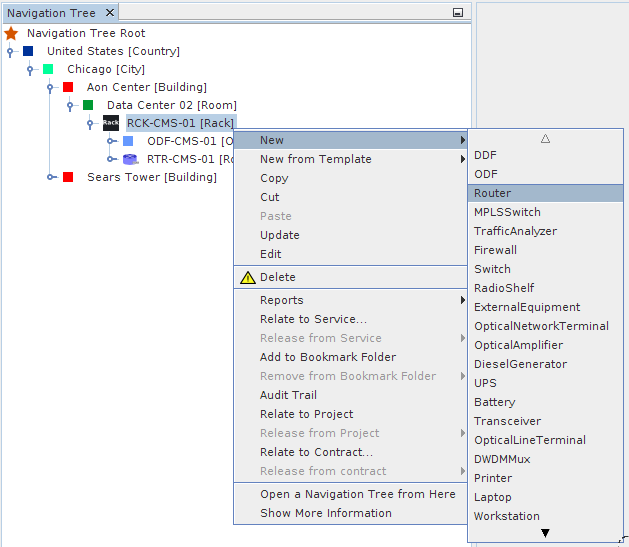
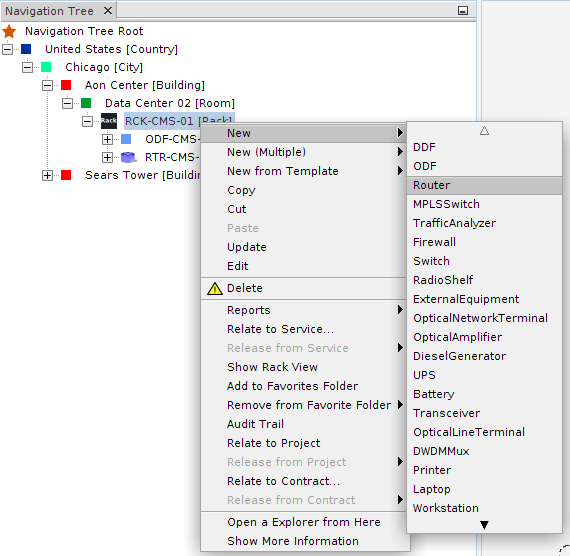
Added documentation for New (Multiple), New Special, New Special (Multiple) and New Special from Template actions. Updated documentation for Containment Hierarchy and Template Manager

Changed region(s): [[0.0, 0.0, 1.0, 1.0]]

diff --git a/docs/user_manual/user_manual.tex b/docs/user_manual/user_manual.tex
@@ -81,6 +81,8 @@
 				December 19th 2016 & Added documentation for templates and reports.\\
 				\midrule
 				June 1th 2017 & Added documentation for Bookmarks, Update Center, Projects and new functions in the Relationship Explorer.\\
+				\midrule
+				June 30th 2017 & Added documentation for New (Multiple), New Special, New Special (Multiple) and New Special from Template actions. Updated documentation for Containment Hierarchy and Template Manager.\\
 				\bottomrule
 			\end{tabular}	
 				
@@ -310,13 +312,26 @@
 	\section{Containment Manager} \label{sec:containment_manager}
 	Another key concept in Kuwaiba is containment. It consists of the ability to define what kind of objects can be created within others. For example, a \textbf{Country} can be inside a \textbf{Continent}, but can't be inside a \textbf{Rack}. A \textbf{Port} is usually within a \textbf{Board}, and not inside a \textbf{City}. These business rules can be defined using the Containment Manager.
 	
+	\subsection{Standard Containment Hierarchy} \label{sec:standard_containment_hierarchy}
+	The main window is divided in two panels (see figure~\ref{fig:standard_containment_manager}, zoom in the image to see the details). The one on the left is a tree that holds all the classes plus the \textbf{Navigation Tree Root}. The children of the left-side tree node are the possible classes that can be contained. In the figure~\ref{fig:standard_containment_manager} there are five nodes expanded: \textbf{City}, that has one node inside: \textbf{Building}. That means that below a given city, you will only be able to add \textbf{Building} objects. Likewise, inside a \textbf{Continent} you can only create instances of \textbf{Country}, and inside those instances, only objects of class \textbf{City}. Under the root of the Navigation Tree, only instances of \textbf{Continent} are to be created. Finally, only \textbf{OpticalPorts} are supported under \textbf{DWDMBoards}. If for your operation Continents are not relevant, or if your routers do not have boards, but only ports, simplify the hierarchy as much as you want to meet your needs. To remove a possible children class, just right-click on it and select “Remove”, and instances from that class will no longer be available to be added under the parent class, though the objects created already will remain linked to the respective parent objects.
+	
 	\begin{figure}[h!]
 		\centering
-		\includegraphics[width=0.6\linewidth]{img/containment_manager.png}
-		\caption{Containment Manager main window. Zoom in the image to see the details}
-		\label{fig:containment_manager}
+		\includegraphics[width=0.6\linewidth]{img/standard_containment_manager.png}
+		\caption{Standard Containment Manager main window. Zoom in the image to see the details}
+		\label{fig:standard_containment_manager}
 	\end{figure}
-	The main window is divided in two panels (see figure~\ref{fig:containment_manager}, zoom in the image to see the details). The one on the left is a tree that holds all the classes plus the \textbf{Navigation Tree Root}. The children of the left-side tree node are the possible classes that can be contained. In the figure~\ref{fig:containment_manager} there are five nodes expanded: \textbf{City}, that has one node inside: \textbf{Building}. That means that below a given city, you will only be able to add \textbf{Building} objects. Likewise, inside a \textbf{Continent} you can only create instances of \textbf{Country}, and inside those instances, only objects of class \textbf{City}. Under the root of the Navigation Tree, only instances of \textbf{Continent} are to be created. Finally, only \textbf{OpticalPorts} are supported under \textbf{DWDMBoards}. If for your operation Continents are not relevant, or if your routers do not have boards, but only ports, simplify the hierarchy as much as you want to meet your needs. To remove a possible children class, just right-click on it and select “Remove”, and instances from that class will no longer be available to be added under the parent class, though the objects created already will remain linked to the respective parent objects.
+	
+	\subsection{Special Containment Hierarchy} \label{sec:special_containment_hierarchy}
+	The special containment hierarchy (see figure~\ref{fig:special_containment_manager}) is used to define the business rules for special children see \textbf{\nameref{sec:extra_explorers_children_explorer}}. For example a cables inside a conduit connecting two buildings in this scenario to configure the hierarchy for a wire container drag links like (ElectricalLink, OpticalLink, PowerLink, RadioLink or for simply used the GenericPhysicalLink) from the right panel to the WireContainer class in the left panel, and in this way using the \textbf{\nameref{sec:extra_explorers_children_explorer}} you can create special children for a conduit.
+	
+	\begin{figure}[h!]
+		\centering
+		\includegraphics[width=0.6\linewidth]{img/special_containment_manager.png}
+		\caption{Special Containment Manager main window. Zoom in the image to see the details}
+		\label{fig:special_containment_manager}
+	\end{figure}
+	
 	\begin{framed} {\large \textbf{Important}}
 		\begin{itemize}
 			\item To avoid adding one by one many classes to a parent, you can use the flexibility of the data model as a hierarchical structure. For example, a \textbf{Rack} may contain within many types of equipment (routers, DDFs, switches, battery banks, etc). Instead of adding one by one each of these classes, you can add a common super class and all of them will be added automatically. For this example a common super class for most of those classes could be \textbf{GenericCommunicationsElement}.
@@ -324,6 +339,8 @@
 			\item The changes are applied immediately, however, if you happen to not see them reflected, press the Refresh Cache button \includegraphics[width=0.5cm]{img/icon_refresh_cache.png} in the main toolbar (see table~\ref{tab:toolbar_icons}).
 		\end{itemize}
 	\end{framed}
+	
+
 	
 	\newpage
 	\section{Navigation Tree} \label{sec:navigation_tree}
@@ -352,6 +369,13 @@
 	\end{figure}
 	\begin{itemize}
 		\item \textbf{New:} The list of object types that can be contained for the selected element type according to the configured Containment Hierarchy. In this case, a \textbf{Rack} can contain \textbf{DDFs}, \textbf{ODFs}, \textbf{Routers}, etc.
+		\item \textbf{New (Multiple):} Crates a defined number of objects at once using a given name pattern see \textbf{\nameref{app:AppendixA}} figure~\ref{fig:new_multiple}.
+			\begin{figure}[h!]
+				\centering
+				\includegraphics[width=0.5\linewidth]{img/new_multiple.png}
+				\caption{Creation of a \textbf{Router} set}
+				\label{fig:new_multiple}
+			\end{figure}
 		\item \textbf{New from template:} Crates a containment structure. See more details in the chapter \nameref{sec:template_manager}
 		\item \textbf{Copy:} A plain copy operation.
 		\item \textbf{Cut:} A plain cut operation.
@@ -427,10 +451,26 @@
 						
 		\begin{figure}[h!]
 			\centering
-			\includegraphics[width=0.3\linewidth]{img/navigation_tree_special_children_explorer.png}
+			\includegraphics[width=0.7\linewidth]{img/navigation_tree_special_children_explorer.png}
 			\caption{Fibers inside a container between two buildings}
 			\label{fig:navigation_tree_special_children_explorer}
 		\end{figure}
+		
+		Every node in the special children explorer has a set of actions, some will be active for all objects, some depend on the type of element that is selected. In the figure~\ref{fig:navigation_tree_special_children_explorer} you can see the actions enabled for a WireContainer object. The actions are the same that in the Navigation Tree with the next exceptions:
+		
+		\begin{itemize}
+			\item \textbf{New Special:} The list of special object types that can be contained for the selected element type according to the configured Special Containment Hierarchy.
+			\item \textbf{New Special (Multiple):} Creates a given number of special objects at once using a defined name pattern see \textbf{\nameref{app:AppendixA}}
+			\begin{figure}[h!]
+				\centering
+				\includegraphics[width=0.5\linewidth]{img/new_special_multiple.png}
+				\caption{Creation of a \textbf{OpticalLink} set}
+				\label{fig:new_special_multiple}
+			\end{figure}			
+			\item \textbf{New Special from template:} Crates a containment structure. See more details in the chapter \nameref{sec:template_manager}
+		\end{itemize}
+		
+		
 			
 	\newpage
 	\section{Template Manager} \label{sec:template_manager}
@@ -470,6 +510,15 @@
 		\label{fig:template_manager_template_properties}
 	\end{figure}
 	
+	Also is available create template using special objects see \textbf{\nameref{sec:extra_explorers_children_explorer}}, in the \ref{fig:template_with_special_objects} show the template for a Non-Armored Loose Tube Cable. 
+	
+	\begin{figure}[h!]
+		\centering
+		\includegraphics[width=0.5\linewidth]{img/template_with_special_objects.png}
+		\caption{Template using special object}
+		\label{fig:template_with_special_objects}
+	\end{figure}
+	
 	Now you can create a containment structure as complex as you want.\\
 	
 	\begin{figure}[h!]
@@ -478,7 +527,7 @@
 		\caption{Template with a complex containment structure}
 		\label{fig:template_manager_template_containment}
 	\end{figure}
-	Copy, paste and rename operations work as they do with normal inventory objects and you can use them to construct your templates. Remember that you have to configure correctly the containment hierarchy (see \ref{fig:containment_manager}) before creating templates.\\
+	Copy, paste and rename operations work as they do with normal inventory objects and you can use them to construct your templates. Remember that you have to configure correctly the standard (see \ref{fig:standard_containment_manager}) and special (see \ref{fig:special_containment_manager}) containment hierarchy  before creating templates.\\
 	Now you can create objects from templates. Just right-click on the parent object and select the \textbf{New from Template...} action.\\
 	\begin{figure}[h!]
 		\centering
@@ -2250,6 +2299,25 @@
 		    	\caption{Projects data model error}
 		    	\label{fig:patch_projects}
 		    \end{figure}
-				
-				
+		\newpage
+		\begin{appendices}
+			\appendix
+			\section{Appendix A. Name Pattern} \label{app:AppendixA}
+			A name pattern is used to create dynamically the names of new objects or new special objects using the actions New (Multiple) and New Special (Multiple) respectively.			
+			
+			The name pattern is a set of static and dynamic sections, in the static section can be place any string of characters with the exception of the special characters "[" and "]", and in the dynamic section only can be placed pre-defined functions listed below.
+			
+			\begin{itemize}
+				\item \textbf{[sequence(a,z)]:} Function that generate an alphabetic ascending lowercase inclusive sequence that begin in the parameter a (a-z) to the parameter z (a-z)
+				\item \textbf{[sequence(A,Z)]:} Function that generate an alphabetic ascending uppercase inclusive sequence that begin in the parameter A (A-Z) to the parameter Z (A-Z)
+				\item \textbf{[sequence(n,m)]:} Function that generate an numeric ascending inclusive sequence that begin in the parameter n (0...) to the parameter m (0...)
+				\item \textbf{[value(object id,attribute name)]:} Function to get the value of an attribute value given the object id and attribute name. For example if there are an object with id 1000, attribute name "name" and attribute value "Colombia" the function would remain [value(1000,name)] and return Colombia.
+			\end{itemize}
+			
+			Examples of name pattern are: router-[sequence(1,3)]-[sequence(a,c)], [value(1111,name)]-[sequence(A,Z)], the first pattern generate six different names, and the second twenty six different names.
+			
+			When name pattern are define this only can generate a limited number of names. If in the dialog see figure~\ref{fig:new_multiple} and see figure~\ref{fig:new_special_multiple}, is assigned a number greather than the possible names, the objects or special objects are not created.
+
+						
+		\end{appendices}				
 \end{document}
